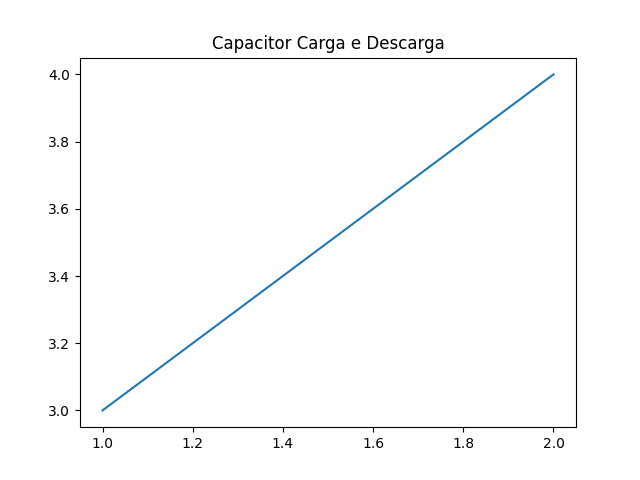
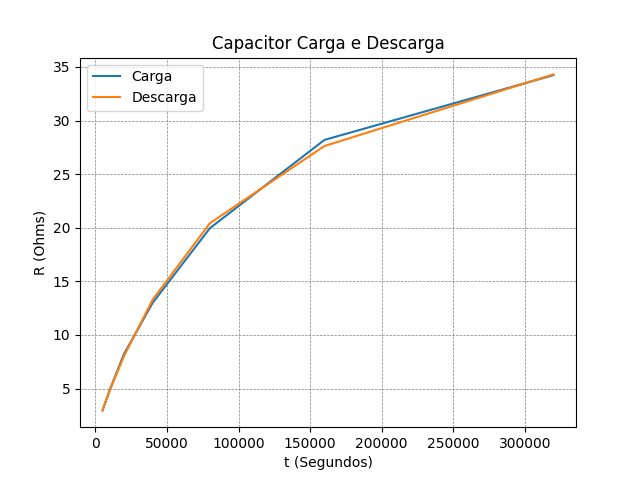
ok

diff --git a/plotter.py b/plotter.py
@@ -21,9 +21,28 @@ def plot_all(arquivos_configuracao: list[dict[str]], outdir: str):
     for grafico in arquivos_configuracao:
         print(grafico)
         figura, ax = plotlib.subplots()
-        ax.plot([1,2], [3,4])
+
+        for i, legendas in zip(grafico["pontos"],grafico["legendas"]): 
+            x = []
+            y = []
+            for j in i:
+                v1, v2 = eval(j)
+                x.append(v1)
+                y.append(v2)
+            print(legendas)
+            print(x)
+            print(y)
+            print("--")
+            ax.plot(x,y, label=legendas)  
+ 
+        
+        if grafico["grid"] != None:
+            ax.grid(color=grafico["grid"]["cor"], linestyle = grafico["grid"]["estilo"], linewidth = grafico["grid"]["tamanho"])
 
         ax.set_title(grafico["titulo"])
+        ax.set_xlabel(grafico["xlabel"])
+        ax.set_ylabel(grafico["ylabel"])
+        ax.legend()
         plotlib.savefig(f"{outdir}/{grafico['nome_arquivo']}.{grafico['formato']}")
         plotlib.show()
 
